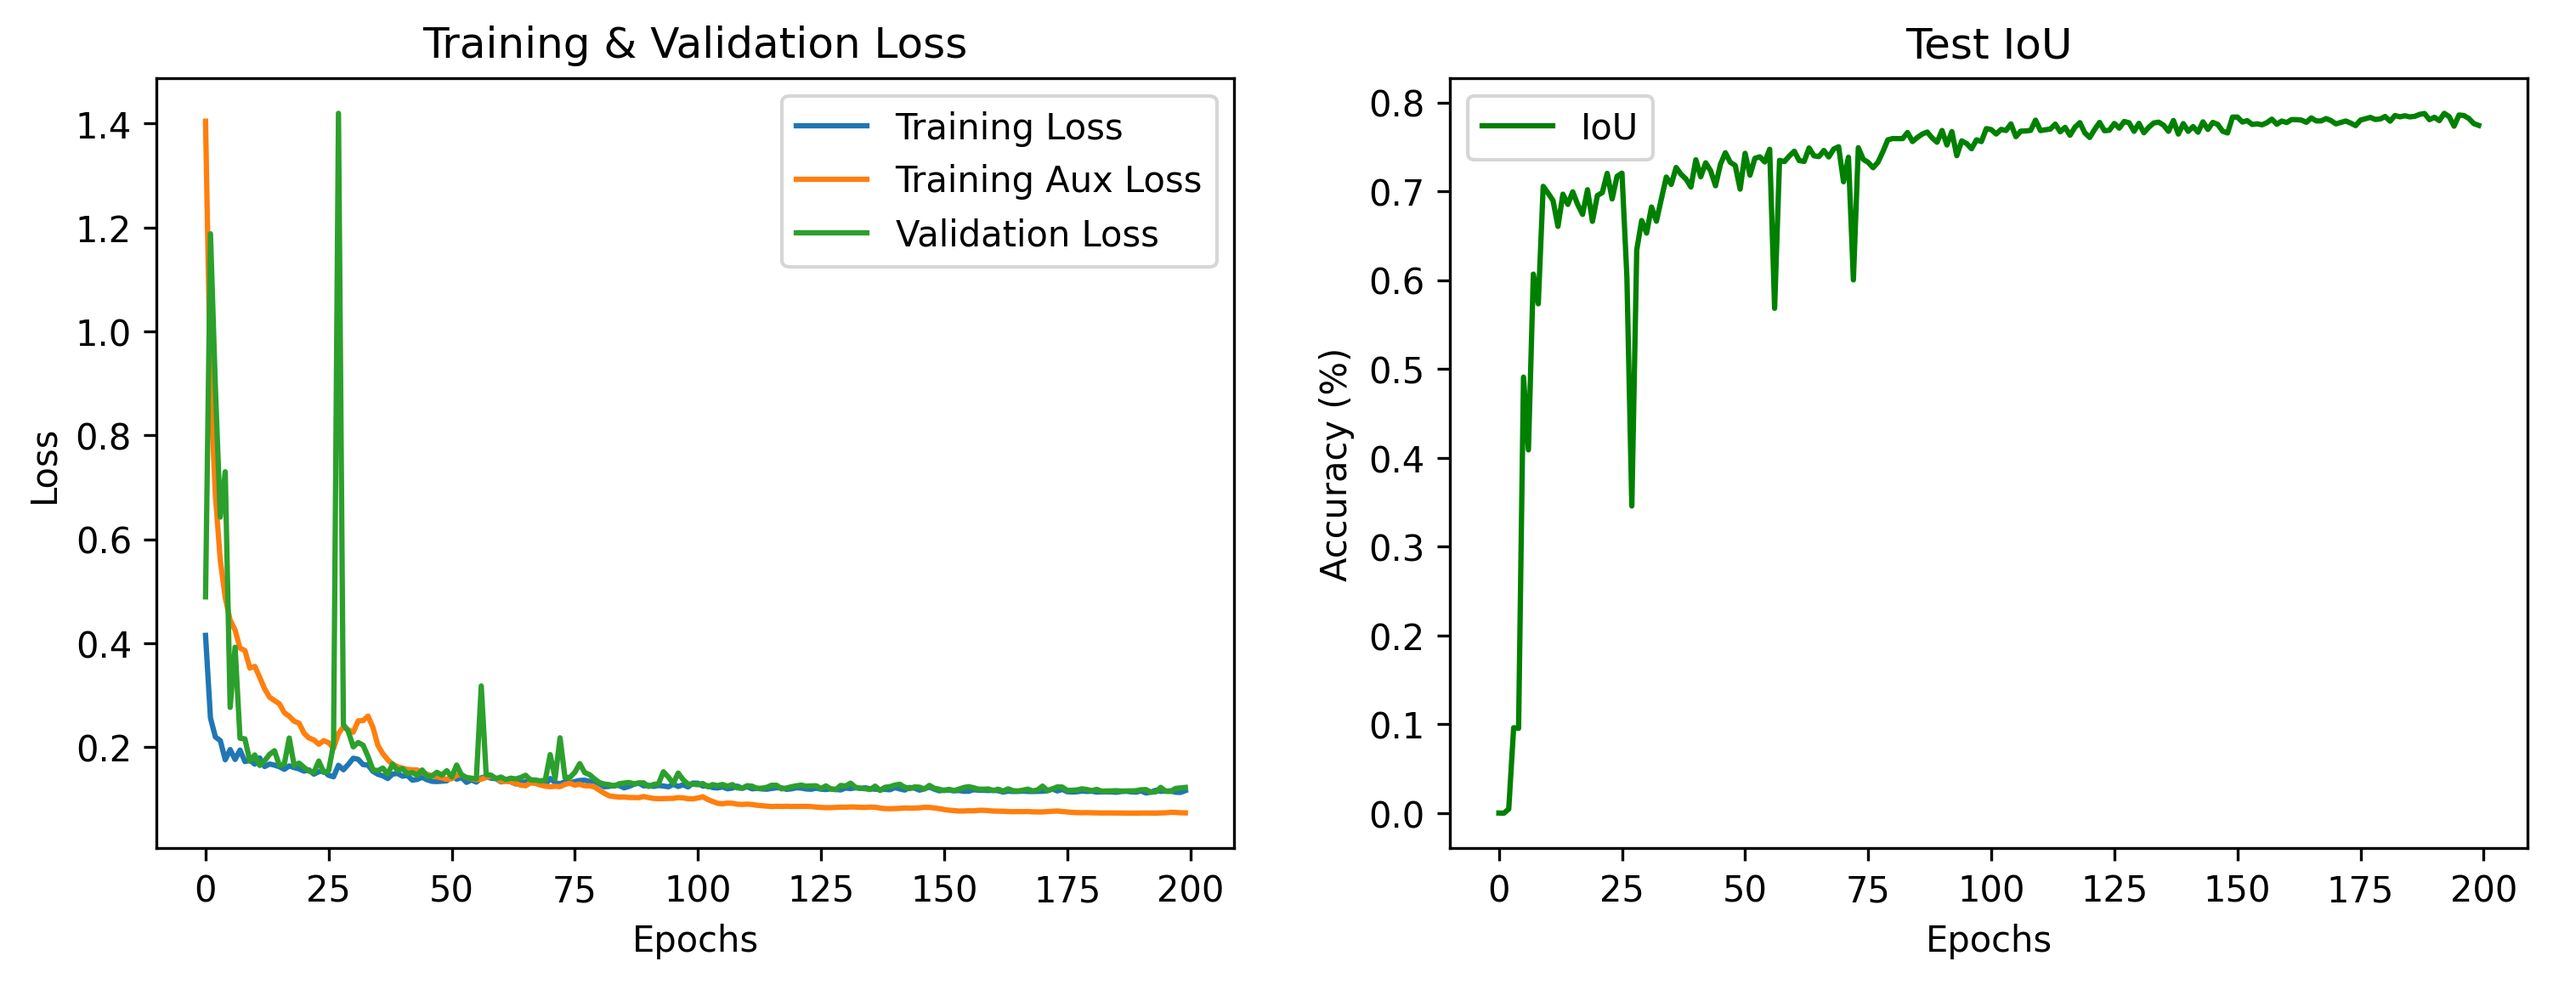
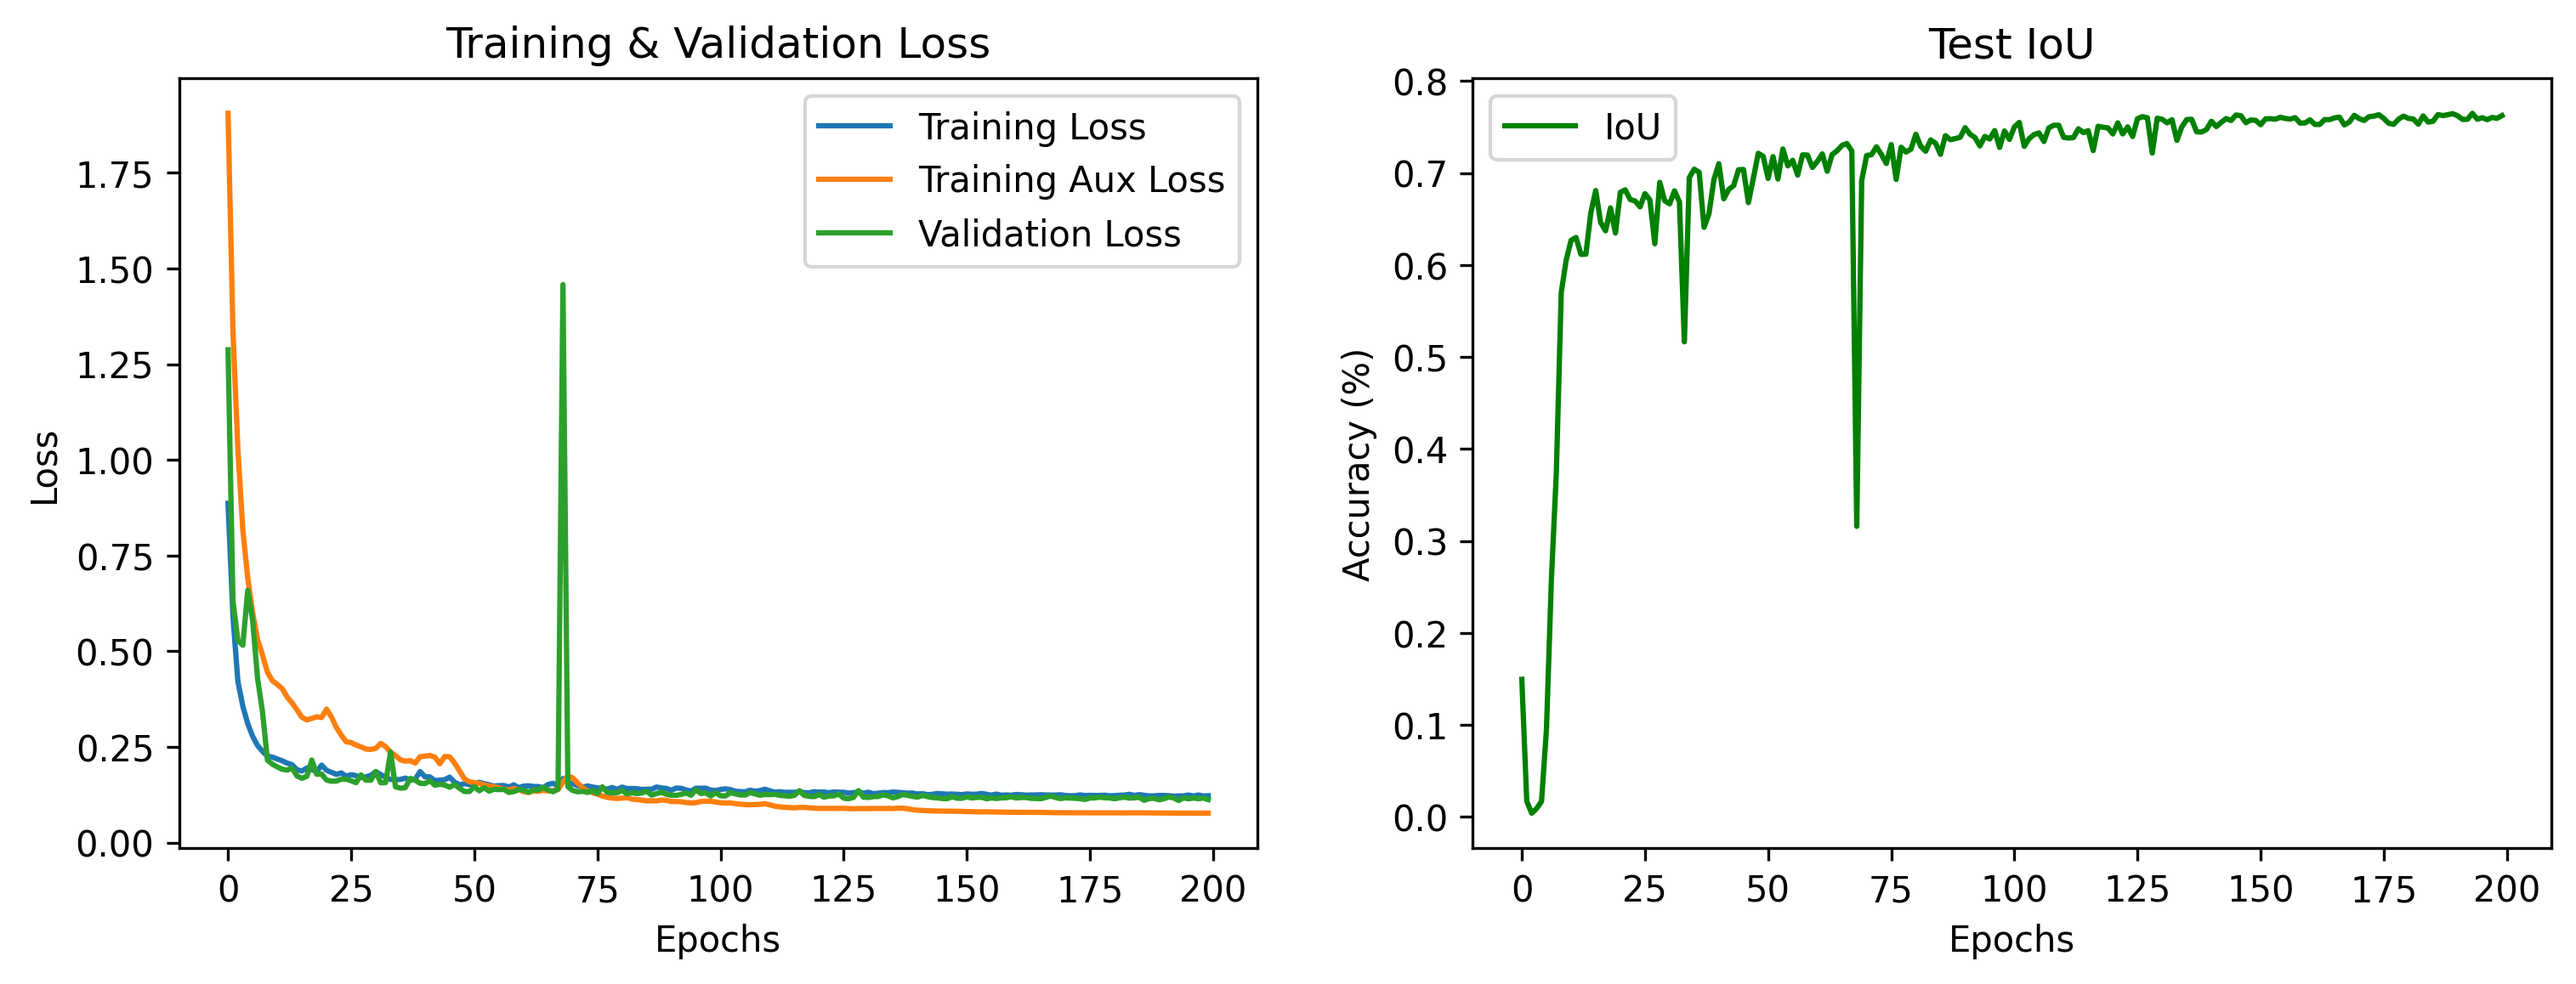
updating models with new cnn parameters

diff --git a/models/CustomCNNVessel.py b/models/CustomCNNVessel.py
@@ -26,7 +26,7 @@ class CustomResNet(nn.Module):
         super(CustomResNet, self).__init__()
         
         # Encoder
-        self.conv1 = nn.Conv2d(1, 64, kernel_size=3, stride=1, padding=1, bias=False)
+        self.conv1 = nn.Conv2d(1, 64, kernel_size=3, stride=2, padding=1, bias=False)
         self.bn1 = nn.BatchNorm2d(64)
         self.relu = nn.ReLU()
         self.resblock1 = ResidualBlock(64, 128, stride=2)  # Adjusted stride
@@ -42,11 +42,13 @@ class CustomResNet(nn.Module):
         self.upconv2 = nn.ConvTranspose2d(512, 256, kernel_size=3, stride=2, padding=1, output_padding=1)
         self.upconv3 = nn.ConvTranspose2d(256, 128, kernel_size=3, stride=2, padding=1, output_padding=1)
         self.upconv4 = nn.ConvTranspose2d(128, 64, kernel_size=3, stride=2, padding=1, output_padding=1)
+        
+        self.upconv5 = nn.ConvTranspose2d(64, 1, kernel_size=3, stride=2, padding=1, output_padding=1)
 
         
         
         # Final Layer
-        self.final = nn.Conv2d(64, num_classes, kernel_size=3, stride=1, padding=1)
+        self.final = nn.Conv2d(1, num_classes, kernel_size=3, stride=1, padding=1)
         
     def forward(self, x):
         # Encoder
@@ -69,7 +71,9 @@ class CustomResNet(nn.Module):
         x = self.upconv3(x)  
         x = x + x2         
         x = self.upconv4(x)  
-        x = x + x1         
+        x = x + x1   
+        x = self.upconv5(x)  
+              
         
         
         # Final Layer
